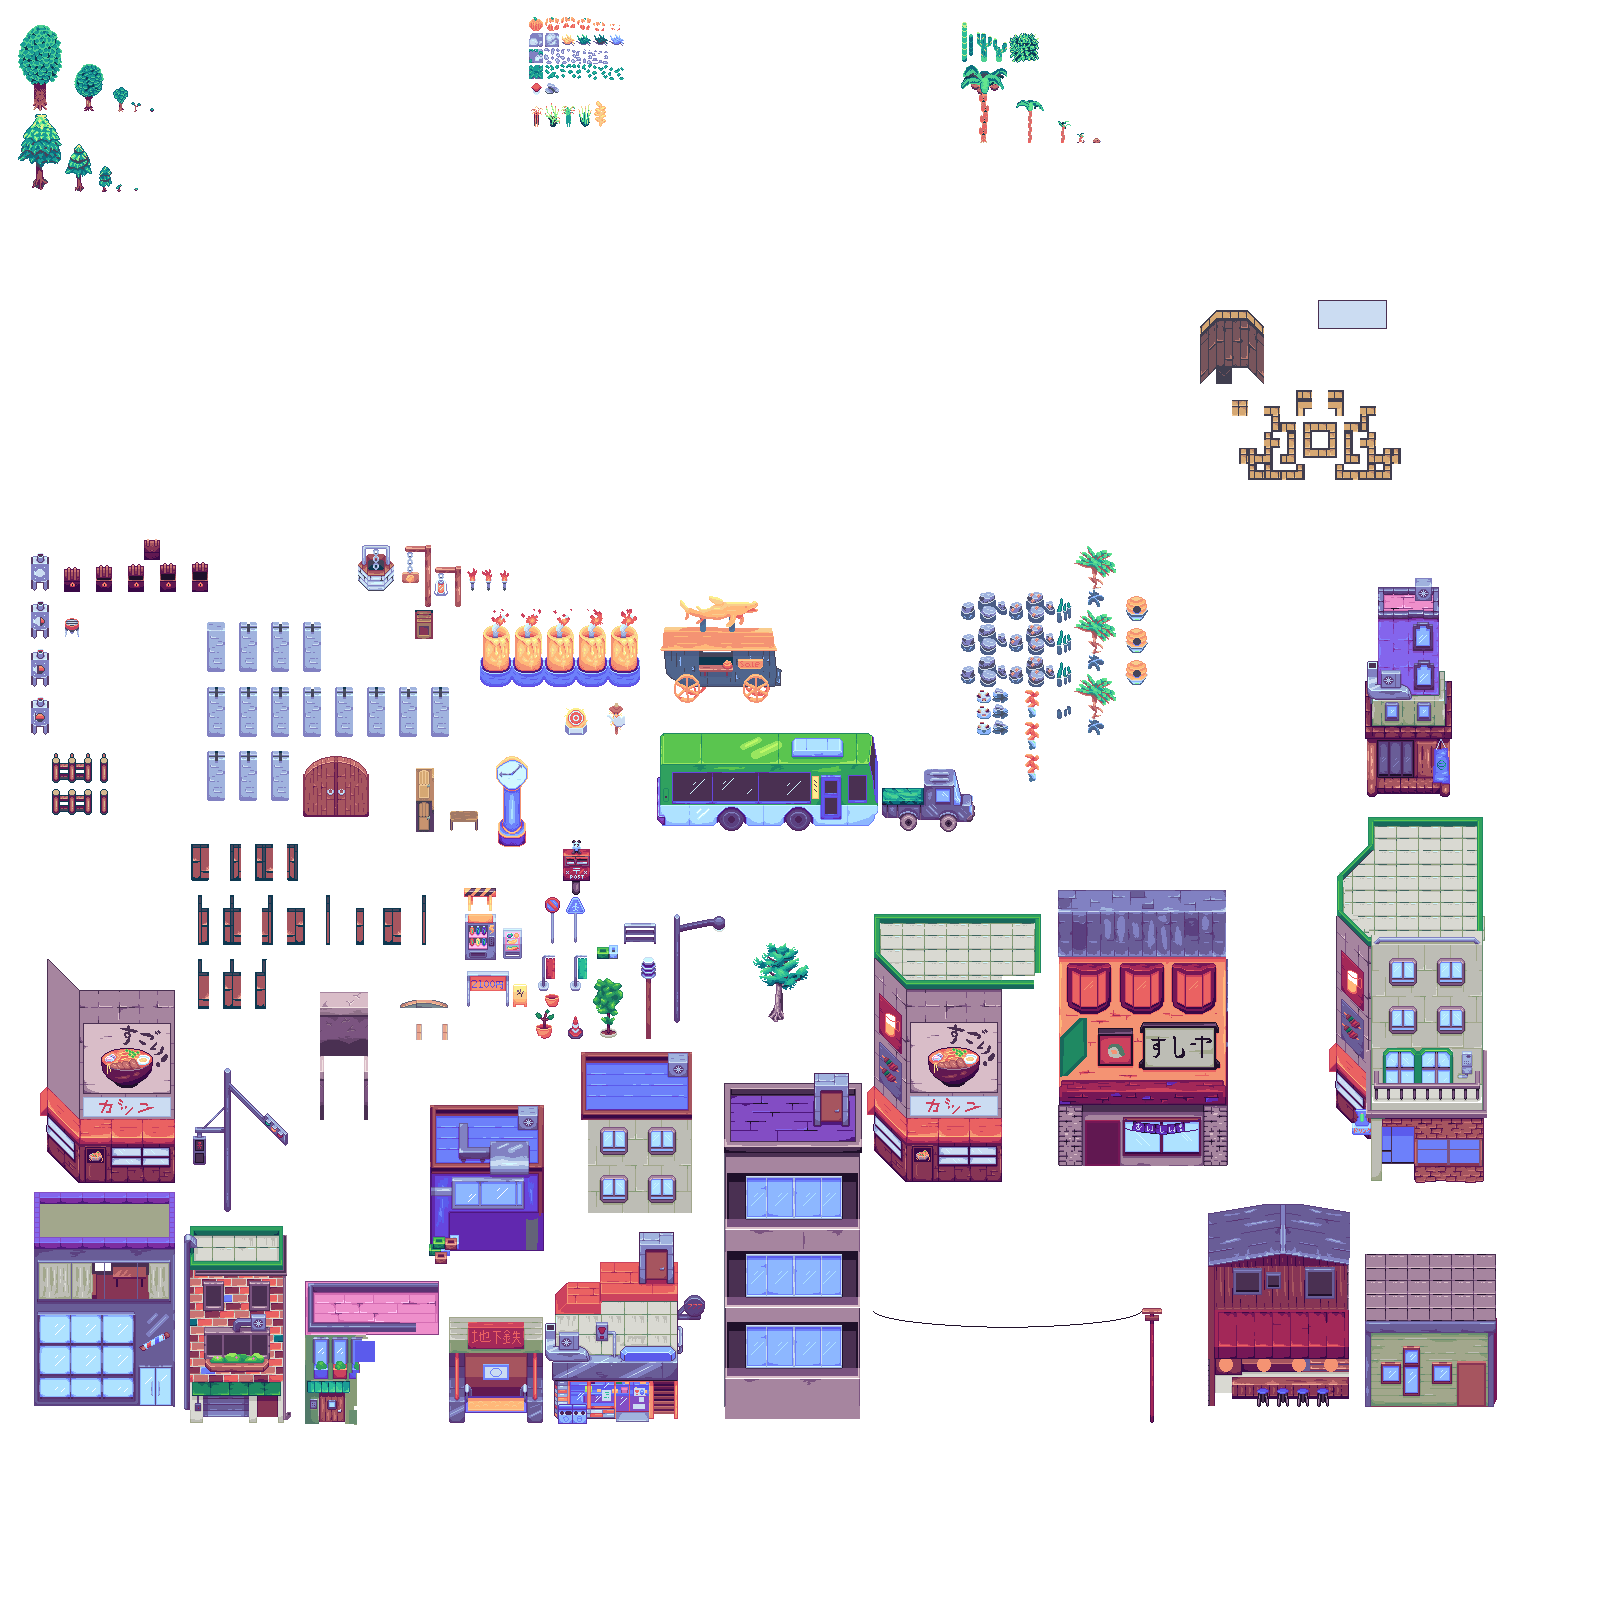
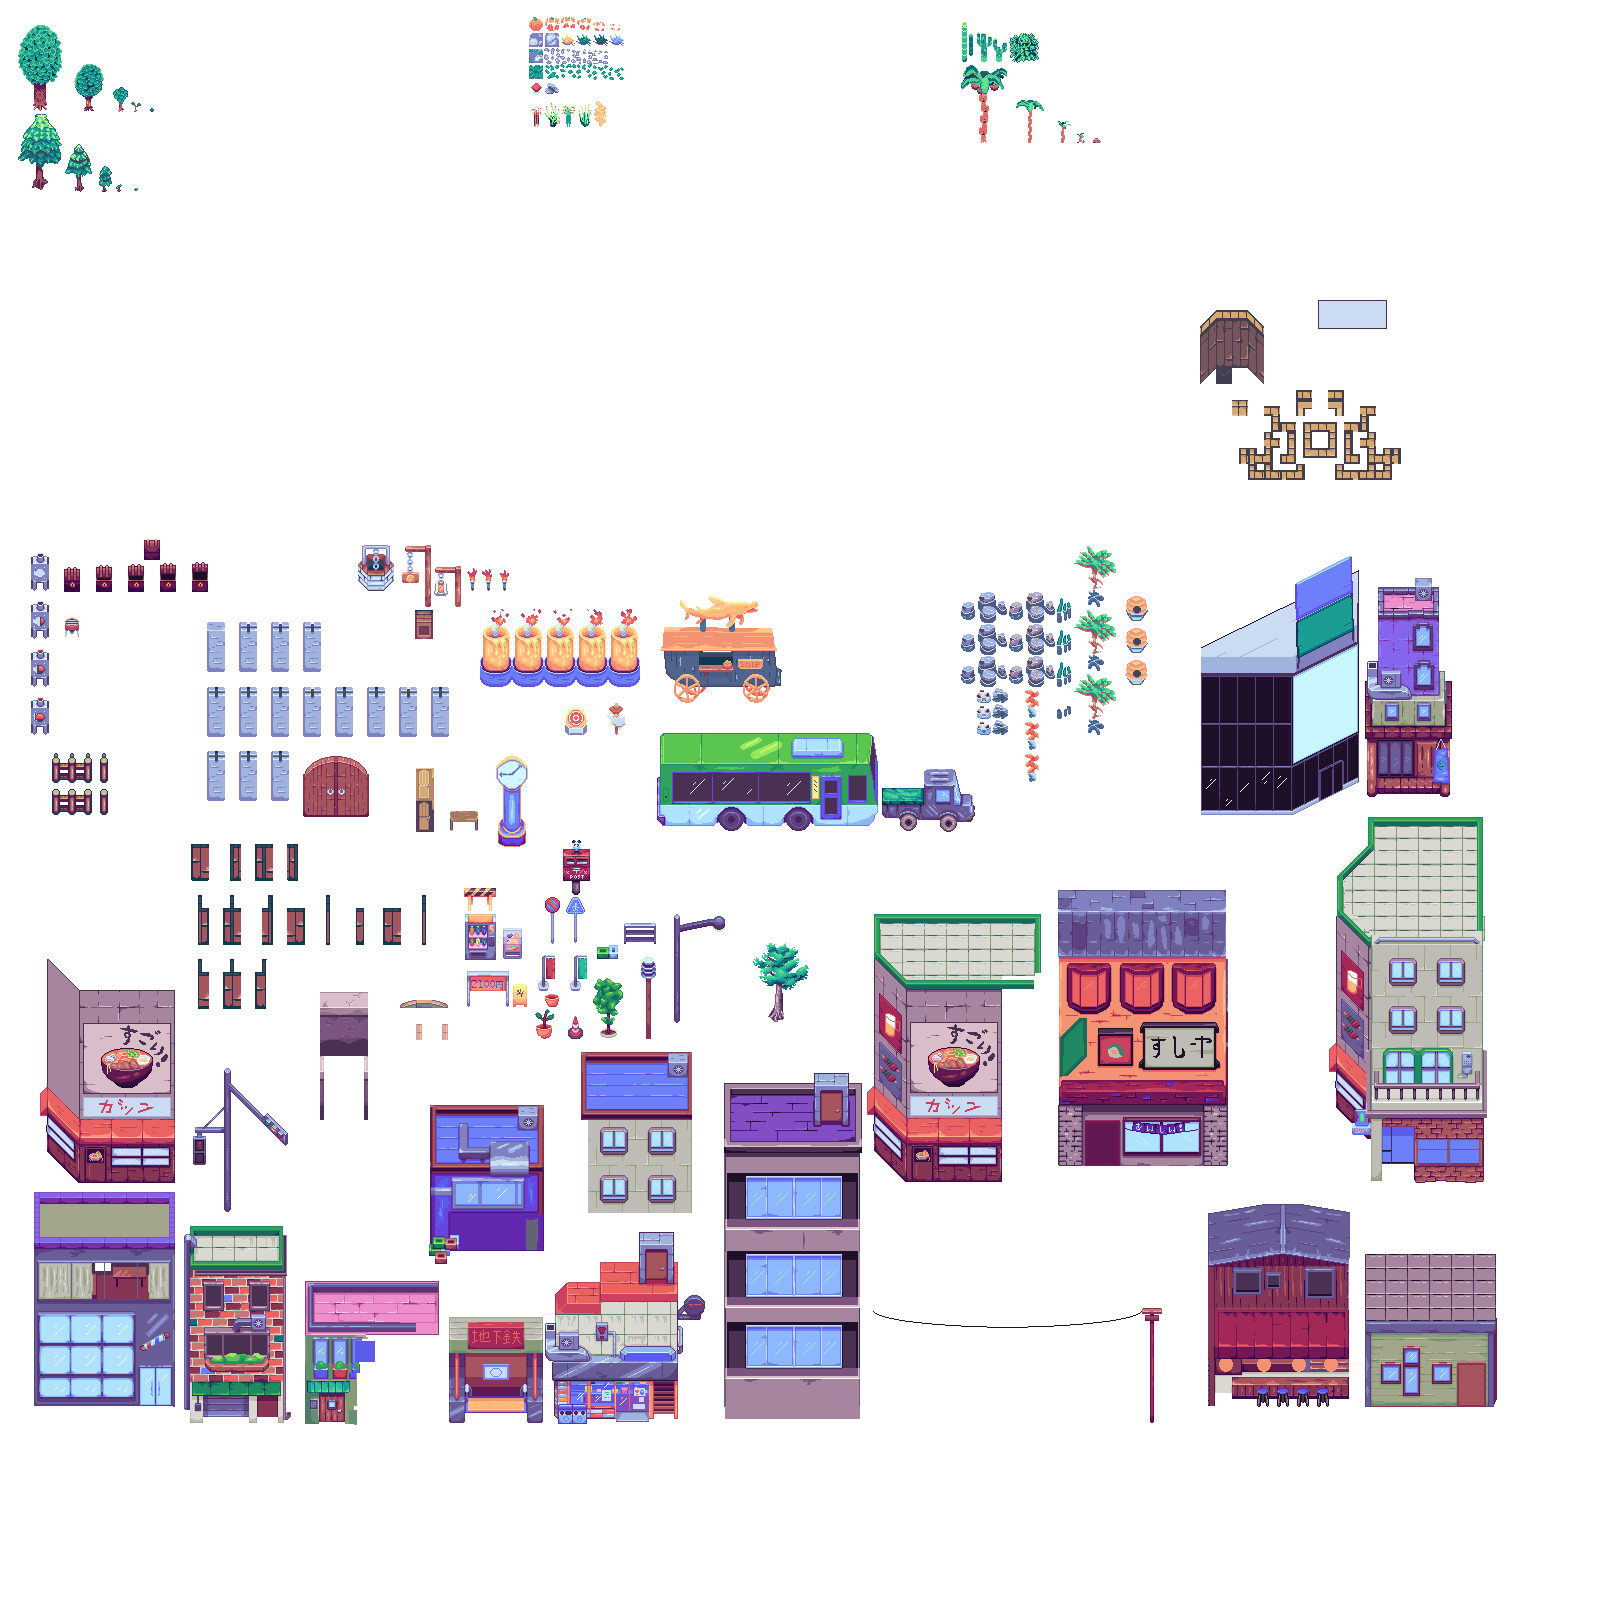
add new glass building and more map adjustments

Changed region(s): [[0.75, 0.3438, 0.875, 0.5312]]

diff --git a/Core/Content/Maps/ForegroundTileset.tsx b/Core/Content/Maps/ForegroundTileset.tsx
@@ -894,6 +894,11 @@
    <property name="transparent" value="-32,-160,128,176"/>
   </properties>
  </tile>
+ <tile id="7828">
+  <properties>
+   <property name="newSource" value="-32,-144,128,160"/>
+  </properties>
+ </tile>
  <tile id="7829">
   <properties>
    <property name="newSource" value="-48,-144,144,160"/>
